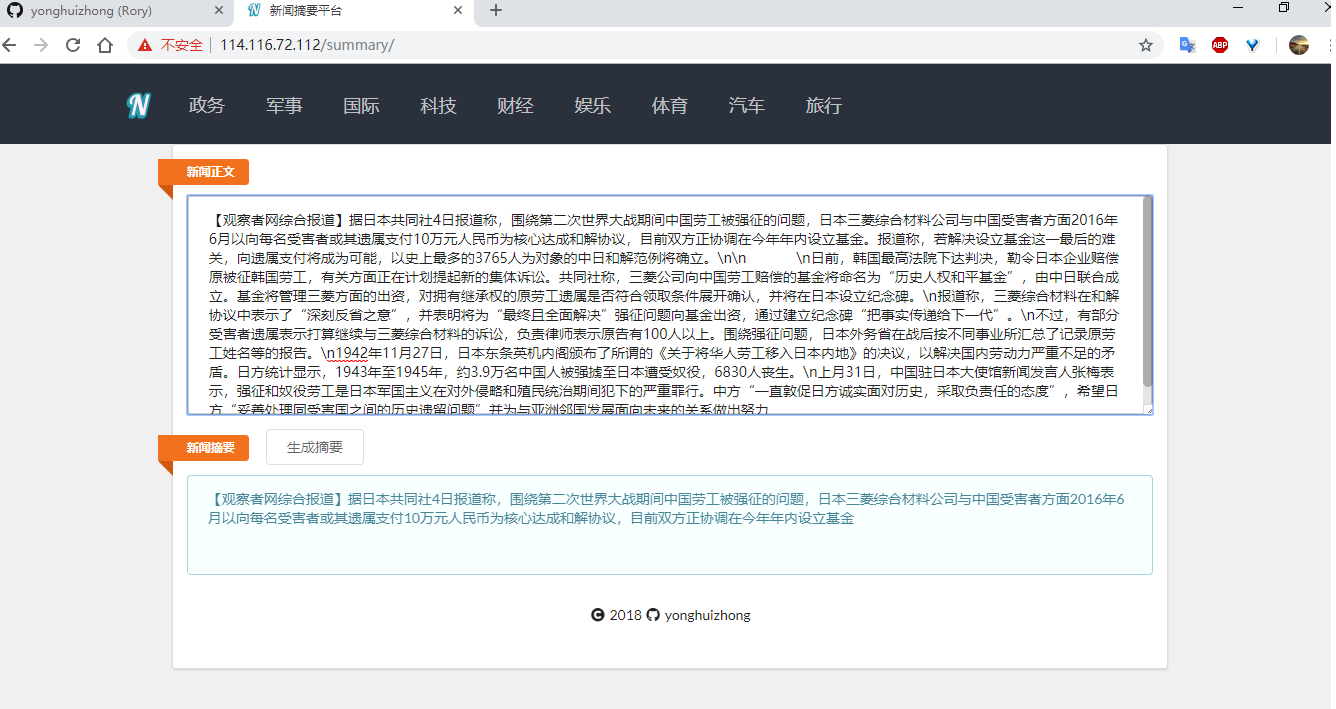
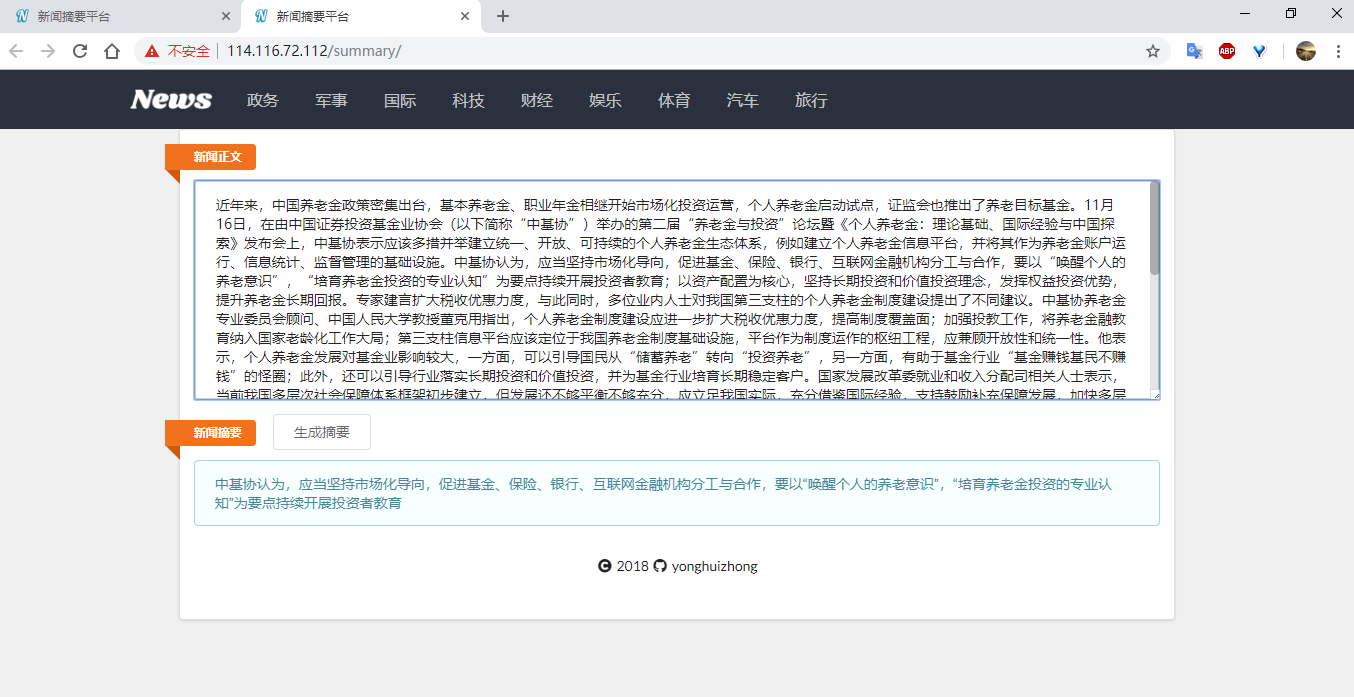
update

Changed region(s): [[0.0, 0.0, 1.0, 0.7532], [0.1228, 0.7834, 0.8593, 0.9039]]

diff --git a/templates/basic.html b/templates/basic.html
@@ -86,7 +86,7 @@
     </div>
 </div>
 <!--侧边栏-->
-<div class="ui vertical inverted sidebar menu">
+<div class="ui thin vertical inverted sidebar menu">
     {% for i in cate_type %}
         <a class="item menu_item {{ i.type_en }}" href="{{ i.type_link }}">{{ i.type_name }}</a>
     {% endfor %}
@@ -94,14 +94,14 @@
 <!--以下为网站内容-->
 <div class="pusher" style="background-color: #f0f0f0">
     <!--顶部菜单栏-->
-    <div class="ui vertical center aligned segment fadeout" style="background-color: #2B313C">
+    <div class="ui vertical center aligned segment fadeout" style="background-color: #2B313C; padding:6px 0">
         <div class="ui container">
-            <div class="ui secondary inverted pointing menu" style="border-width: 0; font-size: 18px">
+            <div class="ui secondary inverted pointing menu" style="border-width: 0; font-size: 16px">
                 <a class="toc item" style="padding-right: 0px">
                     <i class="sidebar icon"></i>
                 </a>
-                <a href="/summary" title="新闻摘要" style="padding: 12px 15px 0px">
-                    <img src="http://114.116.72.112/favicon.ico">
+                <a href="/summary" title="新闻摘要" style="padding: 12px 15px 0px" target="_blank">
+                    <img src="{% static 'img/logo.ico' %}" style="width:85px;">
                 </a>
                 {% for i in cate_type %}
                     <a class="item menu_item {{ i.type_en }}" href="{{ i.type_link }}">{{ i.type_name }}</a>
